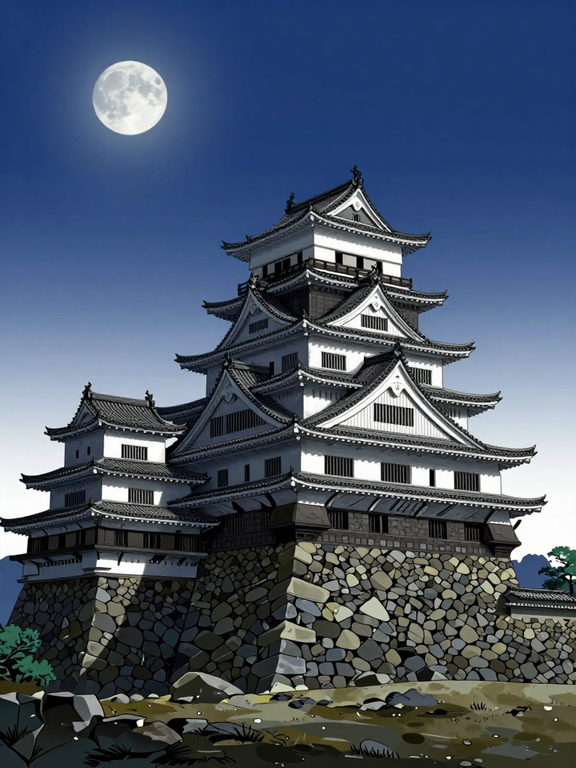
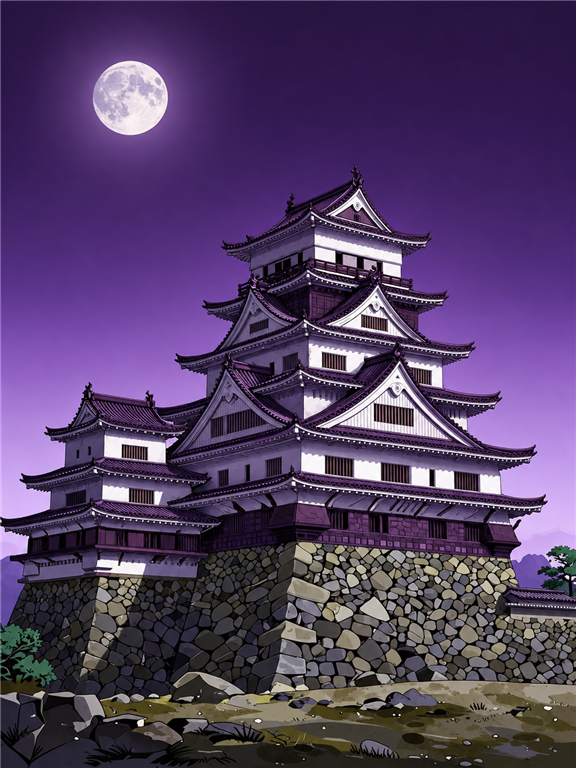
尼子家の札絵を謀の紫に合わせる

diff --git a/js/config.js b/js/config.js
@@ -1,6 +1,6 @@
 // 基本設定（数値はここで調整）
 window.SGK = window.SGK || {};
-SGK.VERSION = '3.11.2'; // 上げるときは index.html の <meta name="sgk-ver"> も同じ値に
+SGK.VERSION = '3.11.3'; // 上げるときは index.html の <meta name="sgk-ver"> も同じ値に
 SGK.SAVE_SCHEMA = 7; // セーブデータの形式番号（形式を変えたら上げて、save.js の migrate に変換を書く）
 SGK.CFG = {
   MIN_PER_SEC: 7.5,     // 現実1秒 = ゲーム内7.5分（1日 = 192秒）。2.102.1 15→7.5（時間の進みを半分に）

diff --git a/index.html b/index.html
@@ -3,7 +3,7 @@
 <head>
 <meta charset="utf-8">
 <meta name="viewport" content="width=device-width,initial-scale=1,maximum-scale=1,user-scalable=no">
-<meta name="sgk-ver" content="3.11.2">
+<meta name="sgk-ver" content="3.11.3">
 <title>天下往来</title>
 <style>
   :root { --ink:#efe6cc; --panel:rgba(24,20,15,.88); --line:#8a7448; --gold:#f2c14e; }

diff --git a/card/index.html b/card/index.html
@@ -241,7 +241,7 @@ button.effect-link:hover:not(:disabled){background:none;color:#fff0b0;outline:no
  <form method="dialog"><button autofocus>閉じる</button></form>
 </dialog>
 <script>
-const VERSION='0.70';
+const VERSION='0.71';
 let TEST=false;
 const sleep=ms=>TEST?Promise.resolve():new Promise(r=>setTimeout(r,ms));
 const IDEO={
